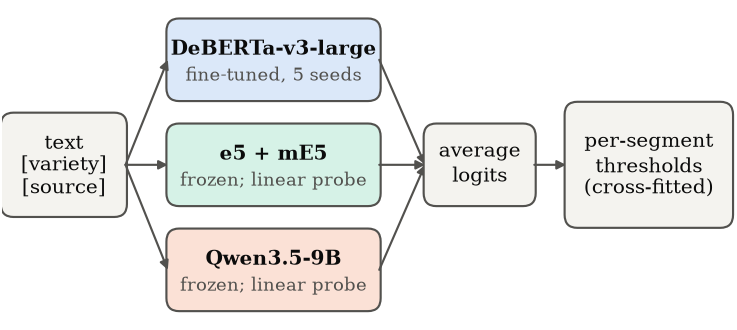
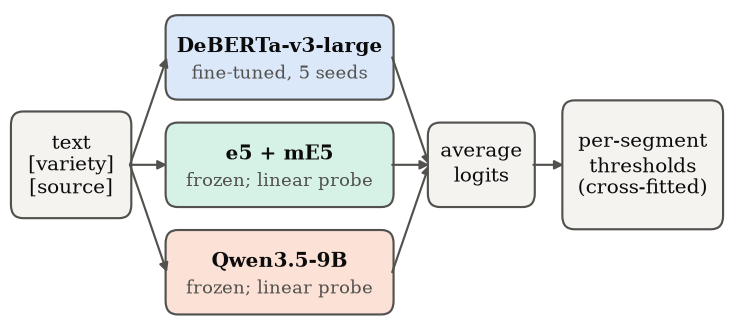
Paper: system figure no longer clips the input box; wider model boxes

diff --git a/experiments/classical/plot_paper.py b/experiments/classical/plot_paper.py
@@ -229,12 +229,12 @@ def system_figure() -> None:
     from matplotlib.patches import FancyBboxPatch, FancyArrowPatch
     plt.rcParams.update({"font.family": "serif", "font.size": 6.6})
     fig, ax = plt.subplots(figsize=(3.35, 1.5))
-    ax.set_xlim(0, 10.4)
-    ax.set_ylim(0, 4.5)
+    ax.set_xlim(-0.15, 10.75)
+    ax.set_ylim(0.05, 4.45)
     ax.axis("off")
 
     def box(x, y, w, h, text, fc, sub=None):
-        ax.add_patch(FancyBboxPatch((x, y), w, h, boxstyle="round,pad=0.02,rounding_size=0.18", fc=fc, ec=INK2, lw=0.7))
+        ax.add_patch(FancyBboxPatch((x, y), w, h, boxstyle="round,pad=0.02,rounding_size=0.18", fc=fc, ec=INK2, lw=0.7, clip_on=False))
         if sub:
             ax.text(x + w / 2, y + h * 0.63, text, ha="center", va="center", fontsize=6.6, color=INK, weight="bold")
             ax.text(x + w / 2, y + h * 0.3, sub, ha="center", va="center", fontsize=5.8, color=INK2)
@@ -251,12 +251,12 @@ def system_figure() -> None:
                ("Qwen3.5-9B", "frozen; linear probe", "#fbe1d6")]
     ys = [3.15, 1.7, 0.25]
     for (t, sub, c), y in zip(members, ys):
-        box(2.35, y, 3.0, 1.1, t, c, sub)
-        arrow(1.75, 2.25, 2.35, y + 0.55)
-        arrow(5.35, y + 0.55, 6.0, 2.25)
-    box(6.0, 1.7, 1.55, 1.1, "average\nlogits", "#f4f3ef")
-    arrow(7.55, 2.25, 8.0, 2.25)
-    box(8.0, 1.4, 2.35, 1.7, "per-segment\nthresholds\n(cross-fitted)", "#f4f3ef")
+        box(2.3, y, 3.35, 1.1, t, c, sub)
+        arrow(1.75, 2.25, 2.3, y + 0.55)
+        arrow(5.65, y + 0.55, 6.2, 2.25)
+    box(6.2, 1.7, 1.55, 1.1, "average\nlogits", "#f4f3ef")
+    arrow(7.75, 2.25, 8.2, 2.25)
+    box(8.2, 1.4, 2.35, 1.7, "per-segment\nthresholds\n(cross-fitted)", "#f4f3ef")
     fig.tight_layout(pad=0.1)
     out = ROOT / "paper" / "fig_system.pdf"
     fig.savefig(out, bbox_inches="tight", pad_inches=0.01)
